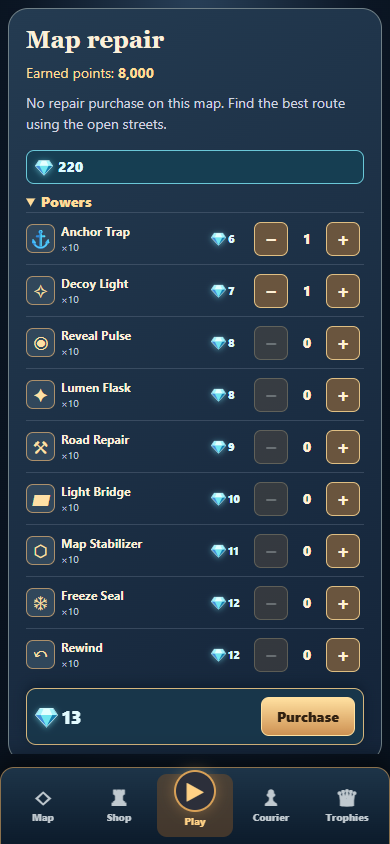
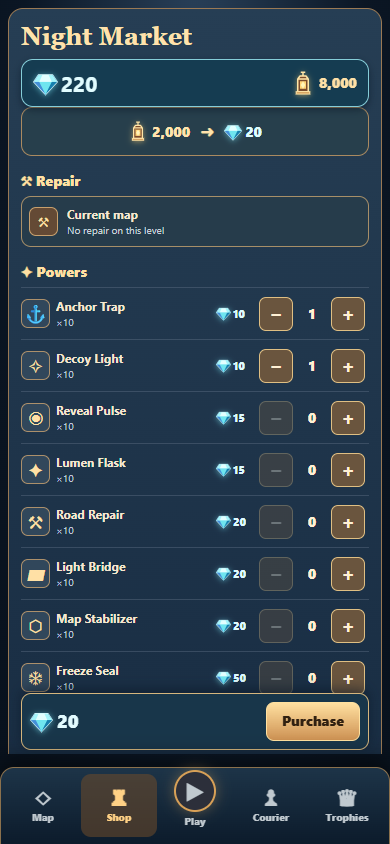
Use four consistent gem price tiers

diff --git a/game/gem-shop.js b/game/gem-shop.js
@@ -8,8 +8,8 @@
     {id:'llc_gems_3000',amount:3000,usd:'$39.99',name:'Treasury'}
   ]);
   const icon = '<svg class="gemIcon" viewBox="0 0 32 32" aria-hidden="true"><path d="M7 5h18l6 9-15 16L1 14z" fill="#50d9ed" stroke="#e4fbff" stroke-width="1.6"/><path d="M7 5l9 25L1 14z" fill="#448fd8"/><path d="M25 5l-9 25 15-16z" fill="#167fae"/><path d="M7 5l-6 9h30l-6-9z" fill="#a5f4fa"/><path d="M12 5h8l4 9H8z" fill="#e3ffff"/><path d="M8 14h16L16 30z" fill="#6fe5ef"/></svg>';
-  const repairPrice = points => Number(points||0)<=0?0:Math.ceil(Number(points)/100);
-  const toolPrices = Object.freeze({anchor_trap:6,decoy_light:7,reveal_pulse:8,lumen_flask:8,road_repair:9,light_bridge:10,map_stabilizer:11,freeze_seal:12,rewind:12});
+  const repairPrice = points => {const cost=Number(points||0);return cost<=0?0:cost<=1000?10:cost<=2000?15:cost<=5000?20:50};
+  const toolPrices = Object.freeze({anchor_trap:10,decoy_light:10,reveal_pulse:15,lumen_flask:15,road_repair:20,light_bridge:20,map_stabilizer:20,freeze_seal:50,rewind:50});
   const toolPrice = id => toolPrices[id];
   window.LLCGemShop = Object.freeze({packs,icon,repairPrice,toolPrice,exchangePoints:2000,exchangeGems:20});
 })();

diff --git a/game/GEM_ECONOMY.md b/game/GEM_ECONOMY.md
@@ -2,7 +2,16 @@
 
 The browser game keeps earned points as the play score. Repairs and optional power restocks spend gems. Players may confirm a repeatable exchange of **2,000 earned points for 20 gems**. A paid pack preview never adds gems. The tester build starts with 200 test gems; its save is separate from the player build.
 
-Existing repair prices in level data convert at 100 points of the old price to one gem, rounded up. A zero-cost repair remains free. Power restocks cost 6–12 gems depending on the power; milestone unlocks and level-provided charges remain available. The conversion is a review balance and can be tuned before release.
+Shop prices use four visible gem tiers. Existing repair prices in level data determine the tier without changing the levels: old cost 1–1,000 points = 10 gems; 1,001–2,000 = 15; 2,001–5,000 = 20; above 5,000 = 50. A zero-cost repair remains free. Milestone unlocks and level-provided power charges remain available.
+
+| Power restock | Gems |
+| --- | ---: |
+| Anchor Trap, Decoy Light | 10 |
+| Reveal Pulse, Lumen Flask | 15 |
+| Road Repair, Light Bridge, Map Stabilizer | 20 |
+| Freeze Seal, Rewind | 50 |
+
+The 50-gem tier is reserved for powers with strong whole-map or recovery effects. These review prices can be tuned after playtesting.
 
 | Product ID | Gems | Proposed US price |
 | --- | ---: | ---: |
